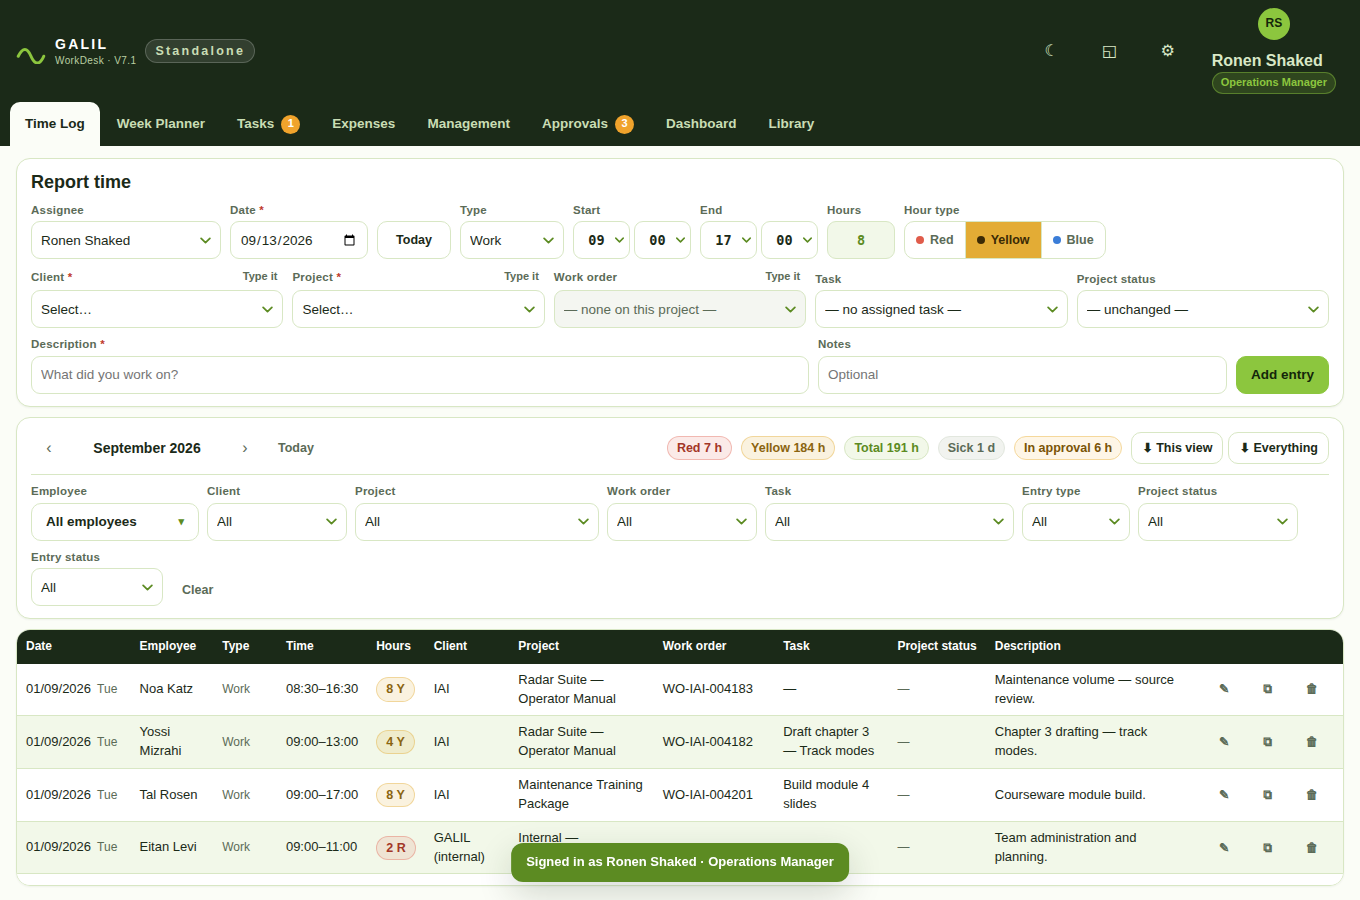
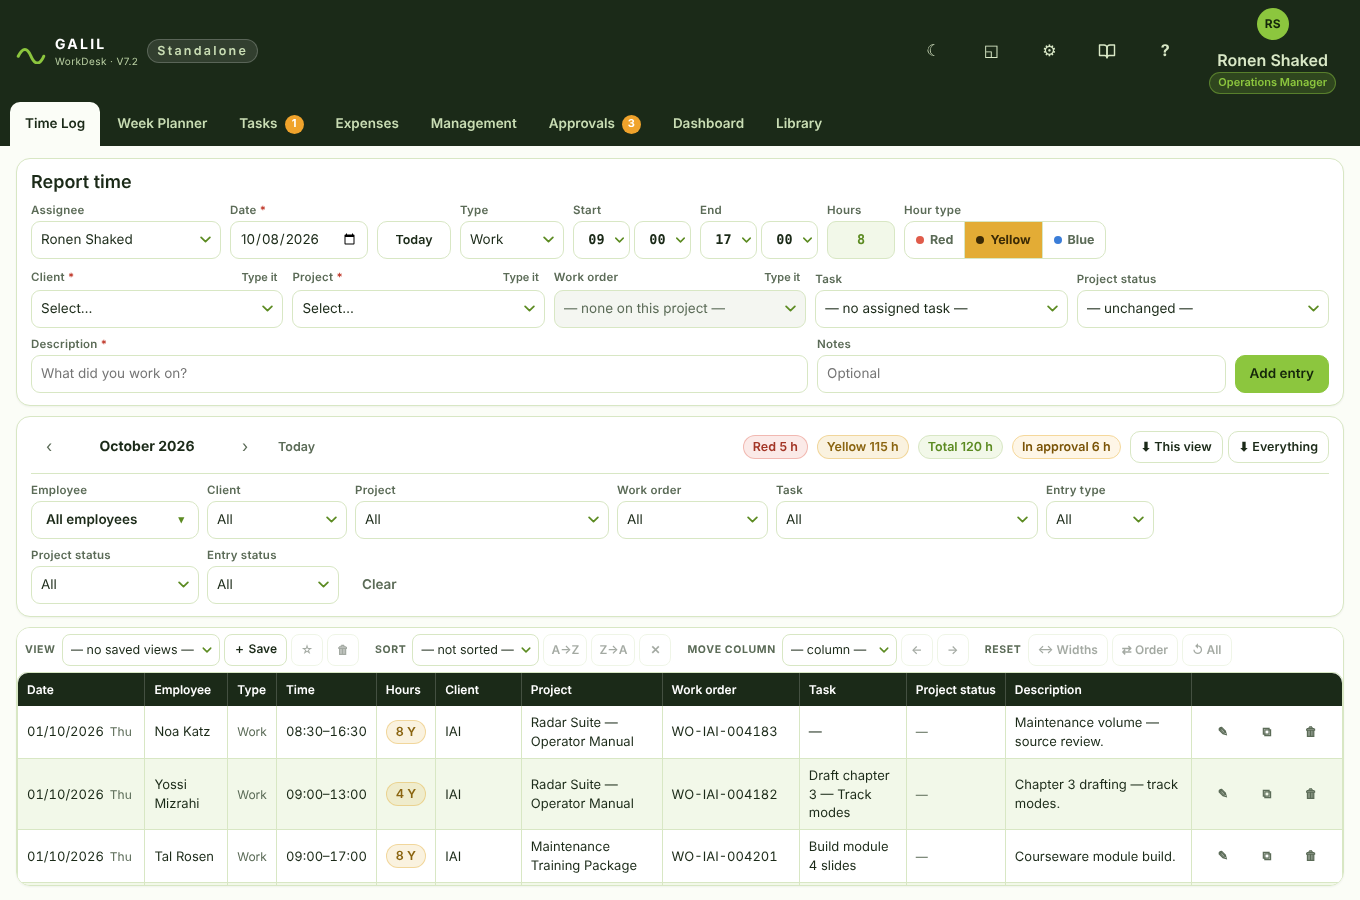
Handbook: retake every screenshot that shows a table, add the table toolbar figure
Re-captured from the current V7.2 build with the same accounts and sizes:
Time Log (Employee, Operations, Viewer), Tasks list and project view,
Expenses, My assignments and Request hours, My profile, Work orders,
People, Assignments & allowances, Clients, Projects, Expense types, and
the Roles, Company settings, Backup and Audit pages of System
administration. New Fig 5.3 shows the table toolbar with a saved
default view and a sort applied; later chapter-5 figures renumbered.

Claude-Session: https://claude.ai/code/session_012caJLcpVZg4uhZvZ6w3TBn

diff --git a/site/handbook/index.html b/site/handbook/index.html
@@ -721,6 +721,11 @@ table code{background:transparent; padding:0}
 
     <h3 id="h-tables">Working with tables</h3>
     <p>Every table in WorkDesk — the Time Log, the Tasks list and project views, Expenses, every Management section, the Roles matrix and Audit log, and My assignments — works the same way. Each one has a toolbar row directly above it.</p>
+
+    <figure>
+      <img src="img/22-table-toolbar.png" alt="The toolbar row above the Time Log table: a saved view chosen and marked as the default, the table sorted by Hours from highest to lowest, the Move column picker and the Reset buttons, above the table with an arrow on the Hours heading.">
+      <figcaption><span class="fno">Fig 5.3</span><span>The table toolbar — here a saved view, <b>Biggest days first</b>, sorts the Time Log by Hours Z→A and opens by default (★).</span></figcaption>
+    </figure>
     <ul>
       <li><strong>Sort</strong> — click a column heading to sort A→Z (lowest first), again for Z→A (highest first), and a third time to clear it. A ▲ or ▼ beside the heading shows the sort in use. The <strong>Sort</strong> picker and its <strong>A→Z</strong>, <strong>Z→A</strong> and <strong>✕</strong> buttons in the toolbar do the same. Dates and numbers sort by value, and empty cells always go last.</li>
       <li><strong>Move a column</strong> — drag its heading onto another column, or choose it in <strong>Move column</strong> and use <strong>←</strong> and <strong>→</strong>.</li>
@@ -745,11 +750,11 @@ table code{background:transparent; padding:0}
     <div class="fig-pair">
       <figure>
         <img src="img/98-mobile-timelog.png" alt="WorkDesk's mobile Time tab: a large timer card with Start the timer, followed by a scrollable list of this month's entries as cards.">
-        <figcaption><span class="fno">Fig 5.3</span><span>The Time tab on a phone — the timer is the primary way to report a day's work.</span></figcaption>
+        <figcaption><span class="fno">Fig 5.4</span><span>The Time tab on a phone — the timer is the primary way to report a day's work.</span></figcaption>
       </figure>
       <figure>
         <img src="img/99-mobile-more.png" alt="The More bottom sheet: Library, My assignments and allowances, My profile, and a note about switching to the desktop layout.">
-        <figcaption><span class="fno">Fig 5.4</span><span>The More sheet — everything that doesn't fit in the bottom bar.</span></figcaption>
+        <figcaption><span class="fno">Fig 5.5</span><span>The More sheet — everything that doesn't fit in the bottom bar.</span></figcaption>
       </figure>
     </div>
     <div class="note">
